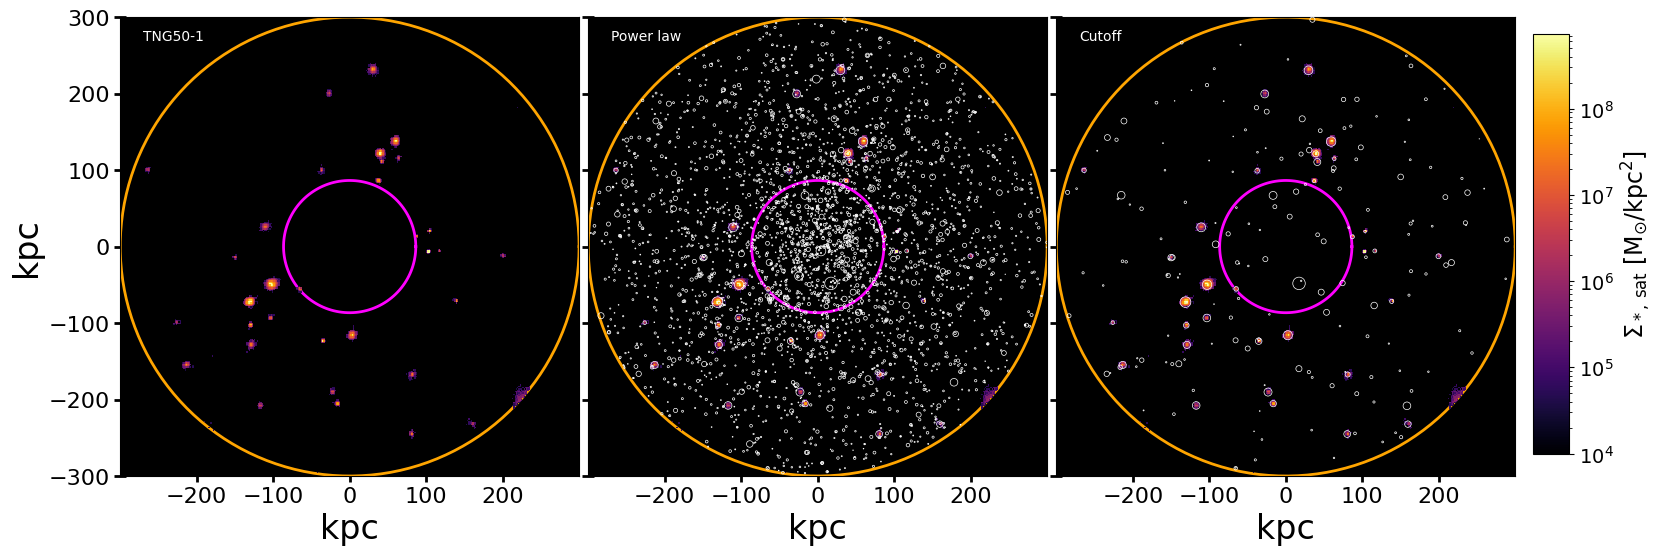
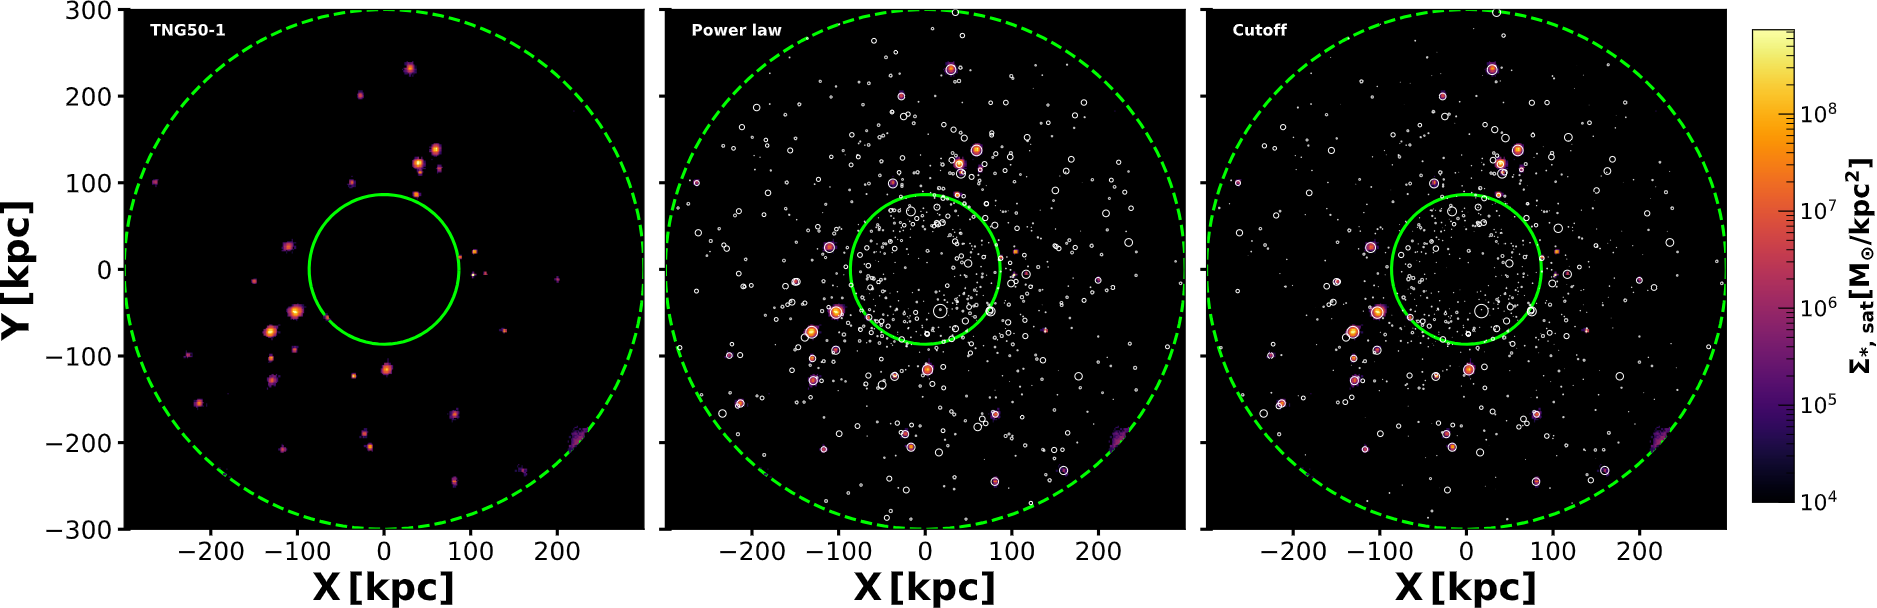
updated niusha plot about me Changed past-research to just research

diff --git a/index.html b/index.html
@@ -16,23 +16,25 @@
 <div id="header"></div>
 <h1>Pradyumna Sadhu</h1>
 <p>Contact me via email: psadh003 (AT) ucr.edu</p>
-<p>Graduate student in Dept. of Physics and Astronomy at University of California, Riverside.</p>
+<p>PhD Candidate in Dept. of Physics and Astronomy at University of California, Riverside.</p>
 <p>
   <img src="me.jpg" alt="Prady" width = 300 class="bordered-image">
   <!-- <figcaption>This is a caption for the image.</figcaption> -->
 </p>
 
 <h2>About me</h2>
-<p>I am currently working with Prof. Laura Sales to understand the nature of dark matter and galaxy formation using dwarf galaxies as probes. We are currently making predictions for what upcoming surveys like Vera Rubin and Roman telescopes should be seeing when they start probing the "faint universe". Towards this end, we leverage the combined power of cosmological simulations and semi-analytic models. Our first results indicate that there must be 10,000 to 100,000 dwarf galaxies in a Virgo like cluster. While cosmological simulations tend to not resolve the low mass galaxies because of numerical effects, empirical models come to rescue! I like working on the framework that allows the first generation of Rubin/Roman faint-galaxy observations to be translated into constraints on dark matter and galaxy formation. 
+<p>I am currently working with Prof. Laura Sales to understand the nature of dark matter and galaxy formation using dwarf galaxies as probes. I use multiple theoretical techniques -- cosmological simulations, empirical models, analytic models and zoom-in simulations -- to study environmental processing of the faint galaxies in our Universe and to make observational predictions for Rubin, Roman, and upcoming wide-field high-sensitivity telescopes. I also involve machine learning techniques to build informed supernova feedback models, paving way for next generation simulations. 
 </p>
-<p>
-My research sits at the intersection of dwarf galaxies and dark matter. I use cosmological simulations to study environmental processing in the faint universe and to make observational predictions for Rubin, Roman, and related surveys, including ML-based methods that help connect simulations to the data those telescopes will deliver.
-</p>
+<p>For a more complete account of my research, including earlier work, see <a href="all-about-my-research.html">All about my research</a>!</p>
+
 <div style="height: 5px"></div>
+<!--
+We are currently making predictions for what upcoming surveys like Vera Rubin and Roman telescopes should be seeing when they start probing the "faint universe". Towards this end, we leverage the combined power of cosmological simulations and semi-analytic models. Our first results indicate that there must be 10,000 to 100,000 dwarf galaxies in a Virgo like cluster. While cosmological simulations tend to not resolve the low mass galaxies because of numerical effects, empirical models come to rescue! I like working on the framework that allows the first generation of Rubin/Roman faint-galaxy observations to be translated into constraints on dark matter and galaxy formation.
+-->
+
 <p>
   <img src="niusha_plot.png" alt="preds" width = 900>
-  <figcaption> Plot above shows a thin slice of one of the galaxy clusters taken from IllustrisTNG simulation. <em>Left panel</em>: The dwarf galaxies as predicted by the simulation. <em>Center and right panels</em> show galaxies which have been lost in the simulation because of lack of sufficient resolution, and see how many! We use two abundance matching relations to populate the dark subhalos of the simulation -- Power law (center) and Cutoff (right), because we do not fully understand yet how stars populate dark subhalos in the low mass regime.  </figcaption>
-
+  <figcaption> This plot taken from my first published work at UC Riverside shows the inner 300 kpc region of a 100 kpc thick slice of one of the galaxy clusters taken from IllustrisTNG simulation. <em>Left panel</em>: The dwarf galaxies as predicted by the simulation. <em>Center and right panels</em> show galaxies which have been lost in the simulation because of lack of sufficient resolution, and <em>look how many</em>! We use two abundance matching relations to populate the dark subhalos of the simulation -- Power law (center) and Cutoff (right), because we do not fully understand yet how stars populate dark subhalos in the low mass regime.  </figcaption>
 </p>
 
 <!-- <div style="height: 25px"></div> -->

diff --git a/all-about-my-research.html b/all-about-my-research.html
@@ -1,0 +1,31 @@
+<!DOCTYPE html>
+<html>
+<head>
+  <link rel="stylesheet" href="website_body.css">
+  <title>All about my research</title>
+  <script src="https://code.jquery.com/jquery-3.6.0.min.js"></script>
+  <script src="https://cdnjs.cloudflare.com/ajax/libs/mathjax/2.7.7/MathJax.js?config=TeX-MML-AM_CHTML"></script>
+  <script>
+  $(document).ready(function(){
+      $("#header").load("header.html");
+  });
+
+  MathJax.Hub.Config({
+    tex2jax: {
+      inlineMath: [ ['$','$'], ['\\(','\\)'] ],
+      displayMath: [ ['$$','$$'], ['\\[','\\]'] ],
+      processEscapes: true
+    }
+  });
+  </script>
+</head>
+<body>
+  <div id="header"></div>
+  <div style="height: 50px"></div>
+  <h1>All about my research</h1>
+  <p>As an undegraduate, I worked primarily on galaxy clusters. Some of my projects are as follows:</p>
+  <h2>Testing Radial Acceleration Relation in galaxy clusters</h2>
+  <p></p>
+  <div style="height: 20px"></div>
+</body>
+</html>

diff --git a/header.html b/header.html
@@ -10,7 +10,7 @@
             <li><a href="index.html">Home</a></li>
             <li><a href="CV.pdf">CV</a></li>
             <li><a href="https://ui.adsabs.harvard.edu/search/q=orcid%3A0000-0002-3947-6239&sort=date+desc">Publications</a></li>
-            <li><a href="past-research.html">Past Research</a></li>
+            <li><a href="all-about-my-research.html">Research</a></li>
             <li><a href="beyond-astro.html">Beyond Astro</a></li>
             </ul>
         </nav>
